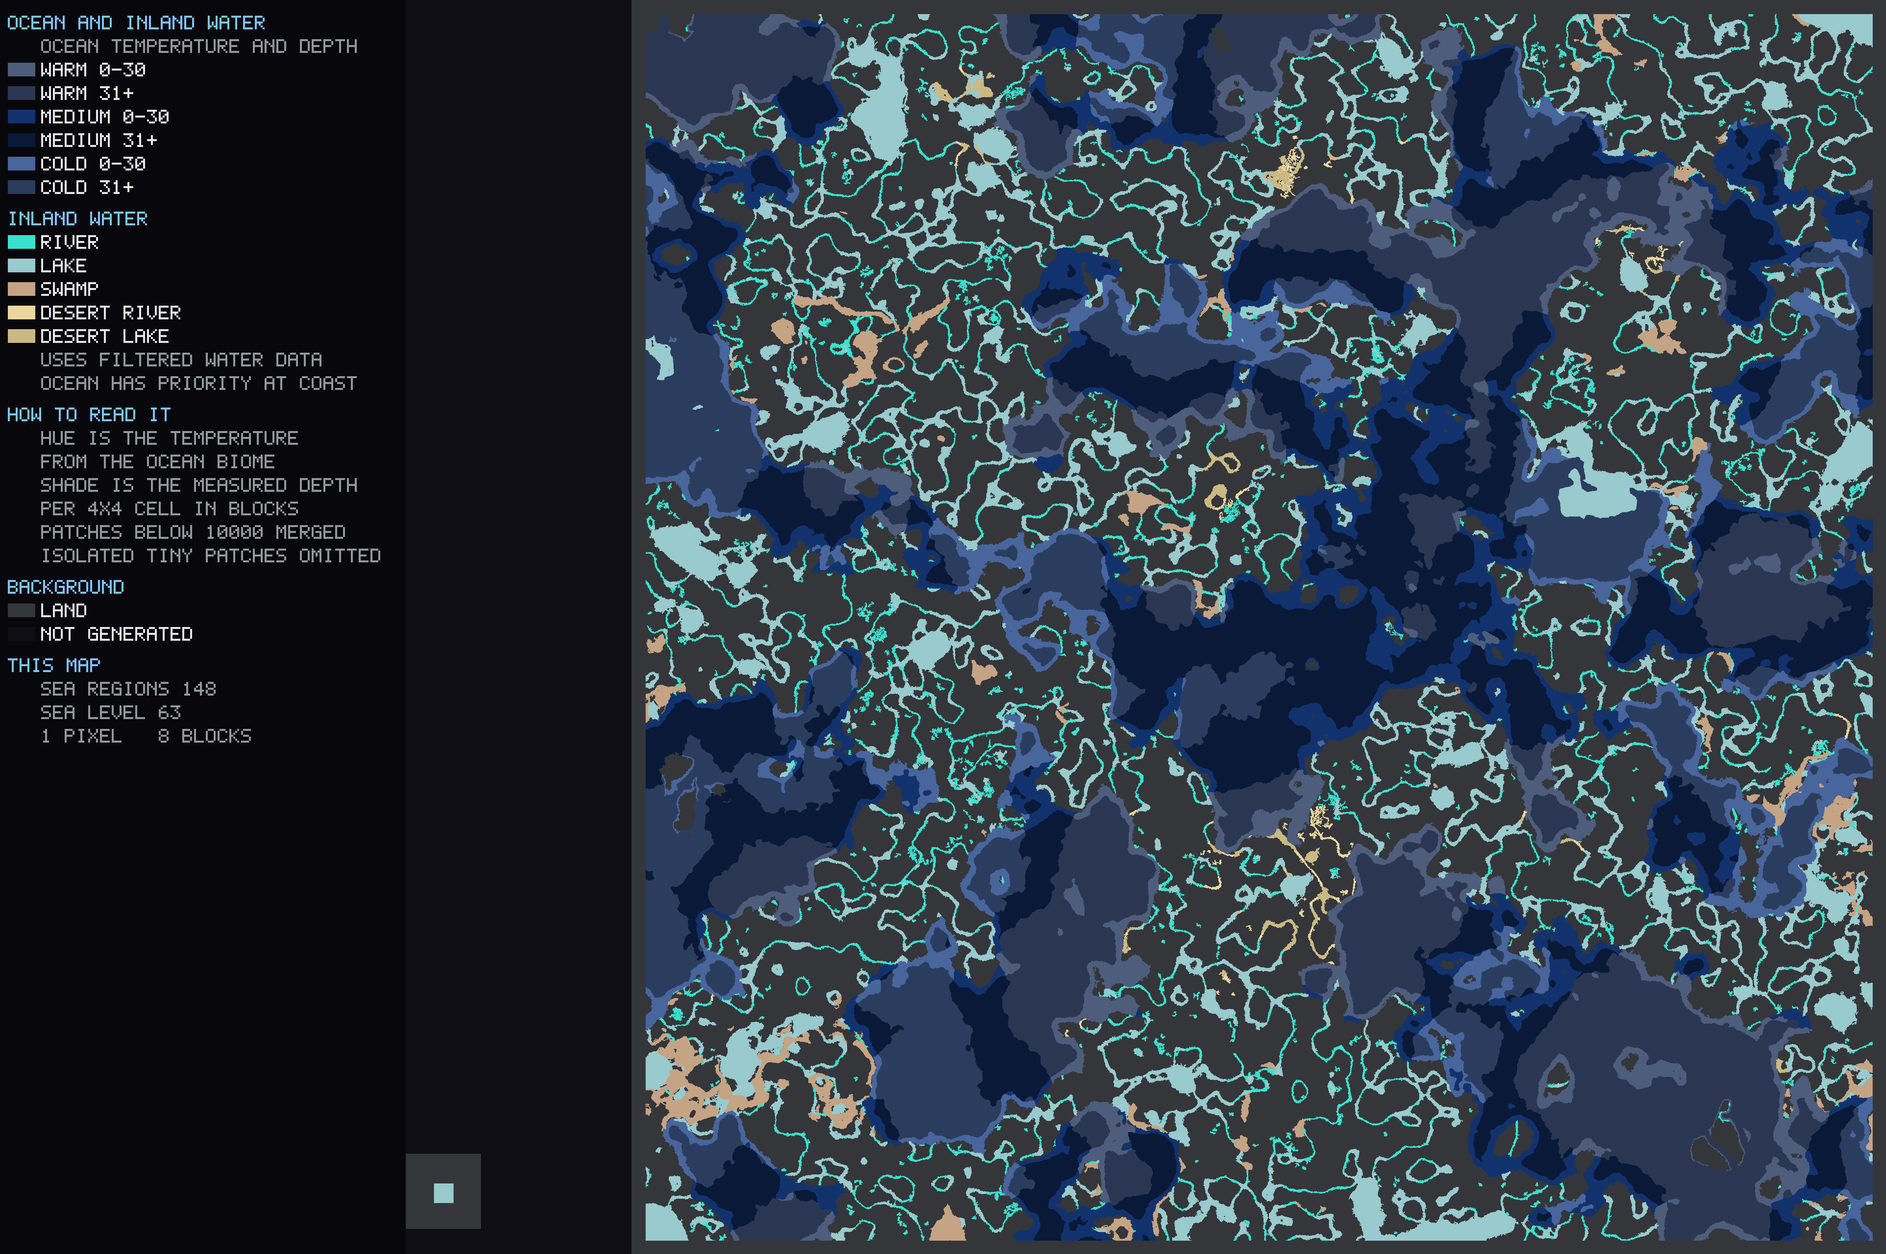
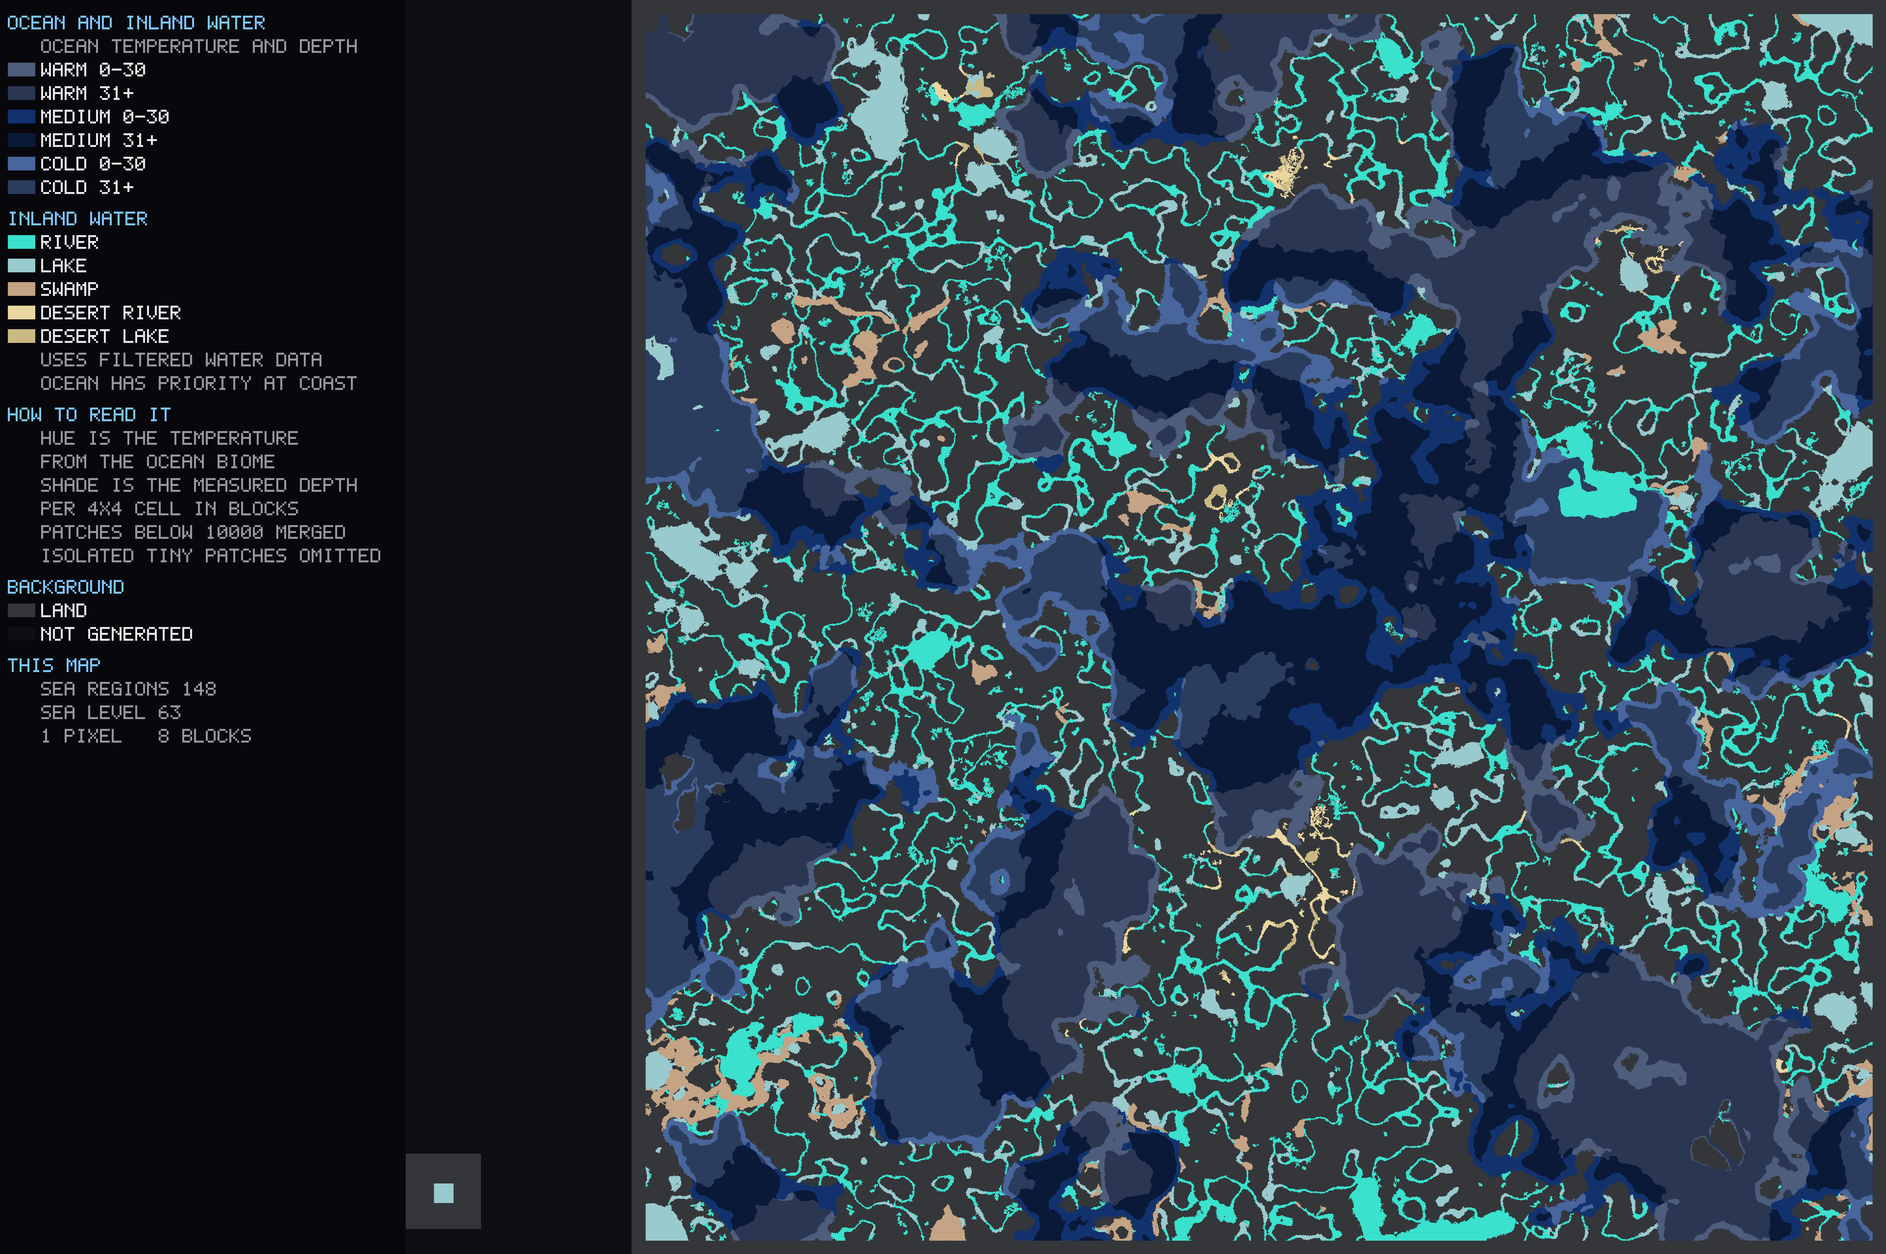
Keep broad winding water networks classified as rivers
Require lakes to fill at least 45 percent of an axis- or PCA-aligned footprint. Preserve diagonal elongated lakes and expose an adjustable min_basin_fill threshold, including zero for the previous behavior.

Pass 193 tests and regenerate the sample world: lake-labelled area falls 49.1 percent with identical water geometry and protected oceans/swamps. Update maps, diagnostics and tuning documentation.

diff --git a/src/water/lakes/tests.rs b/src/water/lakes/tests.rs
@@ -309,6 +309,59 @@ fn uniform_wide_river_is_not_a_lake_just_because_it_has_a_core() {
 }
 
 #[test]
+fn a_wide_winding_channel_is_not_a_lake_despite_a_large_core() {
+    let region = shape([-300, -198, 300, 198], |x, z| {
+        let center = (150.0 * (x as f64 / 100.0).sin()).round() as i32;
+        (z - center).abs() <= 48
+    });
+    let (analysis, output) = detect(region.clone());
+    assert!(
+        analysis.candidates.iter().any(|c| c.core_area >= 64),
+        "fixture must exercise a winding channel with a real core"
+    );
+    assert!(
+        output.iter().all(|r| r.kind == WaterKind::River),
+        "a wide channel meandering through its bounds must remain river"
+    );
+    assert!(analysis
+        .candidates
+        .iter()
+        .any(|c| c.rejection.as_deref() == Some("channel_like_footprint")));
+    let options = LakeOptions {
+        min_basin_fill: 0.0,
+        ..LakeOptions::default()
+    };
+    let (_, previous) = run_analysis(&WorldGrid::build(Vec::new()), vec![region], &options);
+    assert!(
+        previous.iter().any(|r| r.kind == WaterKind::Lake),
+        "disabling the new gate must reproduce the previous overclassification"
+    );
+}
+
+#[test]
+fn a_closed_elongated_lake_remains_lake_when_rotated_diagonally() {
+    let (analysis, output) = detect(shape([-120, -120, 120, 120], |x, z| {
+        let along = i64::from(x + z);
+        let across = i64::from(x - z);
+        along * along * 28 * 28 + across * across * 160 * 160 <= 2 * 160 * 160 * 28 * 28
+    }));
+    let lake = analysis.candidates.iter().find(|c| c.accepted).unwrap();
+    assert!(
+        lake.axis_fill_ratio < 0.3 && lake.basin_fill_ratio > 0.7,
+        "rotation must be measured, not merely exempted from validation"
+    );
+    assert!(
+        output.iter().all(|r| r.kind == WaterKind::Lake),
+        "orientation must not reject an otherwise compact, elongated basin"
+    );
+    assert_kind(
+        &output,
+        &[(0, 0), (-100, -100), (100, 100), (15, -15)],
+        WaterKind::Lake,
+    );
+}
+
+#[test]
 fn a_small_tributary_does_not_make_a_uniform_wide_river_a_lake() {
     let (_, output) = detect(shape([-800, -220, 800, 32], |x, z| {
         (-31..=32).contains(&z) || (-3..=4).contains(&x)
@@ -557,6 +610,7 @@ fn lake_configuration_supports_partial_overrides_and_rejects_invalid_thresholds(
         r#"{"neck_width_ratio":1.0}"#,
         r#"{"connection_sample_distance":257}"#,
         r#"{"min_core_area":0}"#,
+        r#"{"min_basin_fill":1.1}"#,
     ] {
         let options: LakeOptions = serde_json::from_str(json).unwrap();
         assert!(
@@ -601,4 +655,11 @@ fn export_synthetic_lake_diagnostics() {
             .any(|candidate| candidate.accepted));
         crate::debug::lakes::write(&directory.join(name), &grid, &analysis, 1).unwrap();
     }
+    let winding = shape([-300, -198, 300, 198], |x, z| {
+        let center = (150.0 * (x as f64 / 100.0).sin()).round() as i32;
+        (z - center).abs() <= 48
+    });
+    let (analysis, _) = run_analysis(&grid, vec![winding], &LakeOptions::default());
+    assert!(analysis.candidates.iter().all(|c| !c.accepted));
+    crate::debug::lakes::write(&directory.join("winding-river"), &grid, &analysis, 1).unwrap();
 }

diff --git a/src/water/lakes/geometry.rs b/src/water/lakes/geometry.rs
@@ -1,0 +1,78 @@
+//! Rotation-aware basin occupancy. Long curved channels may fit a square world
+//! bounding box and have a wide junction, defeating a width/elongation test.
+//! A lake must occupy a meaningful two-dimensional part of its overall footprint.
+
+use super::{LakeCandidate, Raster};
+
+pub(super) fn measure_basin_fill(r: &Raster, labels: &[u32], candidates: &mut [LakeCandidate]) {
+    // Anchor moments locally to retain precision even near Minecraft's border.
+    let anchors: Vec<_> = candidates
+        .iter()
+        .map(|c| (c.bounds[0], c.bounds[1]))
+        .collect();
+    let mut moments = vec![[0.0f64; 5]; candidates.len()];
+    for (i, &id) in labels.iter().enumerate() {
+        if id == 0 {
+            continue;
+        }
+        let k = (id - 1) as usize;
+        let (x, z) = r.coords(i);
+        let (x, z) = (f64::from(x - anchors[k].0), f64::from(z - anchors[k].1));
+        let m = &mut moments[k];
+        m[0] += x;
+        m[1] += z;
+        m[2] += x * x;
+        m[3] += x * z;
+        m[4] += z * z;
+    }
+    let axes: Vec<_> = moments
+        .iter()
+        .zip(candidates.iter())
+        .map(|(m, c)| {
+            let area = c.area.max(1) as f64;
+            let xx = m[2] - m[0] * m[0] / area;
+            let xz = m[3] - m[0] * m[1] / area;
+            let zz = m[4] - m[1] * m[1] / area;
+            let angle = 0.5 * (2.0 * xz).atan2(xx - zz);
+            (angle.cos(), angle.sin())
+        })
+        .collect();
+    let mut extents = vec![
+        [
+            f64::INFINITY,
+            f64::INFINITY,
+            f64::NEG_INFINITY,
+            f64::NEG_INFINITY
+        ];
+        candidates.len()
+    ];
+    for (i, &id) in labels.iter().enumerate() {
+        if id == 0 {
+            continue;
+        }
+        let k = (id - 1) as usize;
+        let (x, z) = r.coords(i);
+        let (x, z) = (f64::from(x - anchors[k].0), f64::from(z - anchors[k].1));
+        let (cos, sin) = axes[k];
+        let (u, v) = (cos * x + sin * z, -sin * x + cos * z);
+        let b = &mut extents[k];
+        b[0] = b[0].min(u);
+        b[1] = b[1].min(v);
+        b[2] = b[2].max(u);
+        b[3] = b[3].max(v);
+    }
+    for (k, c) in candidates.iter_mut().enumerate() {
+        if c.area == 0 {
+            continue;
+        }
+        let axis_area = (f64::from(c.bounds[2] - c.bounds[0]) + 1.0)
+            * (f64::from(c.bounds[3] - c.bounds[1]) + 1.0);
+        let b = extents[k];
+        // Include the projected extent of a block square, not just its center.
+        let block_span = axes[k].0.abs() + axes[k].1.abs();
+        let oriented_area = (b[2] - b[0] + block_span) * (b[3] - b[1] + block_span);
+        c.axis_fill_ratio = (c.area as f64 / axis_area).clamp(0.0, 1.0) as f32;
+        // PCA is an approximation, so retain whichever rectangle fits better.
+        c.basin_fill_ratio = (c.area as f64 / axis_area.min(oriented_area)).clamp(0.0, 1.0) as f32;
+    }
+}

diff --git a/src/water/lakes/mod.rs b/src/water/lakes/mod.rs
@@ -5,6 +5,7 @@
 //! swamp, cave water and the union of retained water columns are protected.
 
 mod detection;
+mod geometry;
 mod output;
 pub mod raster;
 
@@ -22,6 +23,8 @@ pub struct LakeOptions {
     pub density_32: f32,
     pub min_core_area: u32,
     pub min_lake_area: u32,
+    /// Minimum water occupancy of the candidate's axis/PCA-oriented footprint.
+    pub min_basin_fill: f32,
     pub neck_width_ratio: f32,
     pub river_seed_distance_factor: f32,
     pub min_channel_length: u16,
@@ -41,6 +44,7 @@ impl Default for LakeOptions {
             density_32: 0.80,
             min_core_area: 64,
             min_lake_area: 2000,
+            min_basin_fill: 0.45,
             neck_width_ratio: 0.55,
             river_seed_distance_factor: 2.0,
             min_channel_length: 32,
@@ -64,6 +68,7 @@ impl LakeOptions {
             ("density_16", self.density_16),
             ("density_32", self.density_32),
             ("min_confidence", self.min_confidence),
+            ("min_basin_fill", self.min_basin_fill),
         ] {
             anyhow::ensure!(
                 value.is_finite() && (0.0..=1.0).contains(&value),
@@ -121,6 +126,8 @@ pub struct LakeCandidate {
     pub density_16: f32,
     pub density_32: f32,
     pub channel_elongation: f32,
+    pub axis_fill_ratio: f32,
+    pub basin_fill_ratio: f32,
     pub terrain_basin_score: f32,
     pub terrain_sample_coverage: f32,
     pub inflow_count: u32,

diff --git a/src/water/lakes/detection.rs b/src/water/lakes/detection.rs
@@ -591,6 +591,7 @@ fn score_candidates(
             }
         }
     }
+    super::geometry::measure_basin_fill(r, labels, candidates);
     // One bounded channel BFS per connection; sample heads away from the neck.
     // Flat water has no identifiable flow direction and stays explicitly unknown.
     let mut seen = vec![0u32; r.len()];
@@ -695,6 +696,8 @@ fn score_candidates(
             .clamp(0.0, 1.0);
         if c.area < opts.min_lake_area {
             c.rejection = Some("candidate_too_small".into());
+        } else if c.basin_fill_ratio < opts.min_basin_fill {
+            c.rejection = Some("channel_like_footprint".into());
         } else if c.channel_elongation > opts.max_channel_elongation && !opposed_necks(c) {
             c.rejection = Some("uniform_wide_channel".into());
         } else if c.confidence < opts.min_confidence {

diff --git a/docs/lake-detection.md b/docs/lake-detection.md
@@ -41,7 +41,16 @@ can split a retained region into smaller attribute pieces without deleting water
    Tiny stranded bank tips (up to `min_core_area`) rejoin their single adjacent
    basin. Even shorter real channels touching two basins or protected water remain.
    Low-quality cuts remain visible in diagnostics and reduce widening confidence.
-7. **Plausibility:** sample adjacent land above water and water heads along
+7. **Basin occupancy:** measure how much of its overall footprint the reconstructed
+   candidate fills. Divide its water area by the smaller of two enclosing
+   rectangles: the world-axis bounding box and a rectangle aligned with its
+   principal direction (PCA). Include the full projected block squares in both
+   extents. The default requires a fill ratio of at least **0.45**. A broad,
+   winding river can have a confident core yet occupy little of its footprint;
+   this gate keeps it a river. The oriented rectangle lets an elongated diagonal
+   lake qualify without requiring it to fill a large world-axis rectangle. No
+   water or shoreline is moved to calculate this measurement.
+8. **Plausibility:** sample adjacent land above water and water heads along
    connected channels. Combine geometry, density, core support, relative widening,
    area, terrain and outlet plausibility into separate scores plus confidence.
    Uniform elongated channels without narrower connections at both longitudinal
@@ -76,10 +85,25 @@ of its fields. Unknown fields and invalid values fail before scanning. Defaults:
 | `river_seed_distance_factor` | 2.0 | Persistent-channel distance relative to core radius |
 | `min_channel_length` | 32 | Minimum marker distance and connected medial-ridge span |
 | `max_channel_elongation` | 8.0 | Area / maximum-width squared limit without opposed end necks |
+| `min_basin_fill` | 0.45 | Minimum water area / fitted footprint area; 0 disables this gate |
 | `min_confidence` | 0.58 | Minimum combined candidate confidence |
 | `terrain_rise` | 1 | Required land rise above water for positive bank evidence |
 | `flow_head_difference` | 1.0 | Minimum measured head difference to infer a flow direction |
 | `connection_sample_distance` | 24 | Channel sampling distance from the neck |
+
+**For more rivers, raise `min_basin_fill`; for more intricate lakes, lower it.**
+For example, a partial configuration containing `{"min_basin_fill": 0.50}`
+demands that each lake occupy at least half of its fitted footprint. This is an
+acceptance test, not a shoreline simplification setting: a rejected candidate
+keeps its exact water mask and receives the river label. Complex lakes with
+several connected basins, long bays, or large islands may occupy little of their
+footprint and need a lower threshold. The PCA rectangle is an approximation to
+the best-fitting rectangle, not an exact minimum-area rectangle.
+
+Set `{"min_basin_fill": 0.0}` to disable the new occupancy gate and reproduce the
+previous lake-refinement classifier with the same world and other settings.
+Core, density, neck and confidence defaults remain unchanged. This differs from
+`--no-lake-detection`, which bypasses the entire lake-refinement pass.
 
 Raise core radius or density thresholds to demand broader lake interiors. Lower
 them for smaller or narrower lakes, checking that wide rivers do not become lake
@@ -100,7 +124,10 @@ cargo run --release -- --world /path/to/world --output generated-lakes \
 `--lake-debug` writes `debug/lakes/lake_candidates.json` and separate diagnostic
 PNGs for raw inland water, width, all three densities, cores, reconstructed lakes,
 necks, connection directions, and rejected candidates. The JSON retains individual
-scores, acceptance/rejection reasons, bounds and connection coordinates. These
+scores, acceptance/rejection reasons, bounds and connection coordinates. The
+`axis_fill_ratio` and `basin_fill_ratio` fields expose occupancy before and after
+the orientation adjustment; `channel_like_footprint` identifies rejection by
+`min_basin_fill`. These
 technical layers do not appear on the normal combined map or add gameplay types.
 
 Use `--no-lake-detection` with the same world and other arguments for an ablation
@@ -129,7 +156,13 @@ The same cut logic handles diagonal river mouths:
 
 ![Diagonal river connections retain the original lake outline](images/lakes/diagonal-reconstructed.png)
 
-Regenerate all stage PNGs for round, elongated, diagonal and linked lakes with:
+The occupancy check keeps this broad meandering channel as river even though
+it contains a confident core. Its fitted footprint is only 28% water:
+
+![Broad winding water remains river instead of becoming a lake](images/lakes/winding-river.png)
+
+Regenerate stage PNGs for round, elongated, diagonal and linked lakes, plus the
+winding river, with:
 
 ```bash
 cargo test export_synthetic_lake_diagnostics -- --ignored
@@ -137,24 +170,29 @@ cargo test export_synthetic_lake_diagnostics -- --ignored
 
 Ordinary tests cover the ten requested water-network shapes, plus diagonal
 mouths, short inter-lake channels, stepped water heads, bank-fragment recovery,
-protected attributes, configuration validation and terrain evidence. Every
+wide winding rivers, closed diagonal elongated lakes, protected attributes,
+configuration validation and terrain evidence. Every
 synthetic classification test compares the canonical original and resulting RLE
 water masks and rejects overlaps.
 
 ## Sample-world validation
 
 The final run uses the command above and the documented defaults on 2,509 region
-files / 2,449,846 generated chunks. All **191 ordinary tests pass**, plus the
+files / 2,449,846 generated chunks. All **193 ordinary tests pass**, plus the
 separately invoked PNG export test.
 
-| Measurement | Previous classifier | Lake refinement |
-|---|---:|---:|
-| Retained water columns | 351,359,105 | 351,359,105 |
-| Sea columns | 282,357,242 | 282,357,242 |
-| River columns | 31,236,411 | 12,025,434 |
-| Lake columns | 29,879,633 | 49,090,610 |
-| Swamp columns | 7,885,819 | 7,885,819 |
-| Sea / river / lake / swamp region IDs | 148 / 955 / 1,081 / 152 | 148 / 4,474 / 1,938 / 152 |
+| Measurement | Original classifier | Refinement before occupancy | Current refinement |
+|---|---:|---:|---:|
+| Retained water columns | 351,359,105 | 351,359,105 | 351,359,105 |
+| Sea columns | 282,357,242 | 282,357,242 | 282,357,242 |
+| River columns | 31,236,411 | 12,025,434 | 36,151,591 |
+| Lake columns | 29,879,633 | 49,090,610 | 24,964,453 |
+| Swamp columns | 7,885,819 | 7,885,819 | 7,885,819 |
+| Sea / river / lake / swamp region IDs | 148 / 955 / 1,081 / 152 | 148 / 4,474 / 1,938 / 152 | 148 / 3,677 / 1,308 / 152 |
+
+The occupancy gate returns 24,126,157 columns to the river class, reducing
+lake-labelled area by 49.1% versus the previous refinement. Total region IDs
+decrease from 6,712 to 5,285. These are classification changes, not removed water.
 
 An independent streaming comparison verifies **all 1,404,318 canonical RLE rows**,
 with no differing or overlapping water columns. All 300 protected sea/swamp
@@ -165,13 +203,14 @@ Canonical water-mask SHA-256:
[1 lines of base64/hex data omitted]
 
 The analysis covers 61,116,044 inland columns in 104,566,784 allocated tile cells,
-accepting 1,521 of 2,573 cores. Analysis takes 12.1 seconds; the full run takes
-163.8 seconds (including two height-filter scans, legacy cleanup, diagnostics and
+accepting 1,105 of 2,573 cores. Analysis takes 15.8 seconds; the full run takes
+201.0 seconds (including two height-filter scans, legacy cleanup, diagnostics and
 exports). Peak process working set is 3.09 GiB on the measured 24-thread machine.
 
 These measurements verify geometry and implementation behavior, not accuracy
 against manually labelled hydrological ground truth. Broad connected rivers can
-still require stricter core/density settings for a particular world. The new
+still require a higher `min_basin_fill` for a particular world; complex lakes
+with low footprint occupancy can require a lower value. The new
 transitions increase region count: short connections and inherited attribute
 fragments remain valid below the earlier retention floor. Use the region-ID and
 rejected-candidate maps to inspect them, or `--no-lake-detection` to reproduce the

diff --git a/README.md b/README.md
@@ -14,10 +14,13 @@ These samples use source water and raw mud with `--max-below-sea-level 10
 At sea level 63, water surfaces at Y=53 or above qualify, including water under
 mountains. Flowing/falling water and lower water surfaces are excluded before
 classification; merging and the 2,000-column minimum then remove small regions.
-The current export contains 6,712 regions: 148 seas, 4,474 rivers, 1,938 lakes and
-152 swamps. The lake pass accepts 1,521 geographic candidates; region IDs also
+The current export contains 5,285 regions: 148 seas, 3,677 rivers, 1,308 lakes and
+152 swamps. The lake pass accepts 1,105 geographic candidates; region IDs also
 split on inherited water attributes. Raw mud contributes to the 7.89 million
-square blocks of swamp; the desert/canyon modifier applies to 222 regions.
+square blocks of swamp; the desert/canyon modifier applies to 165 regions.
+The default basin-fill check keeps winding, sprawling water networks as rivers:
+lake-labelled area is 49.1% lower than in the previous refinement, with the same
+water geometry. `min_basin_fill` controls this river/lake bias.
 The earlier classifier produced 2,336 regions. The additional lake/channel cuts
 preserve exactly the same 351,359,105 retained water columns; short channels and
 attribute fragments can now be smaller than the earlier 2,000-column cleanup floor.
@@ -546,7 +549,8 @@ not, and the data says so.
 
 The final inland pass finds broad lake interiors from shore distance and local
 water density, separates narrower river connections, and reconstructs the lake
-using the retained Minecraft water mask. It adds terrain and water-head evidence
+using the retained Minecraft water mask. A rotation-aware footprint check rejects
+winding river candidates while allowing elongated diagonal lakes. It adds terrain and water-head evidence
 to a configurable confidence score. Oceans, swamps and cave-classified regions
 keep their existing geometry and attributes.
 
@@ -758,7 +762,7 @@ round-trip through the binary format.
 ## Performance
 
 The current lake-enabled sample run scans 2,509 region files and 2.45 million
-generated chunks in 164 seconds on 24 threads. Lake analysis itself takes 12.1
+generated chunks in 201 seconds on 24 threads. Lake analysis itself takes 15.8
 seconds, before debug rendering and output splitting. Peak process working set
 was 3.09 GiB. See [lake validation](docs/lake-detection.md#sample-world-validation)
 for the exact mask and protected-ocean checks. Times depend on hardware and caches.
